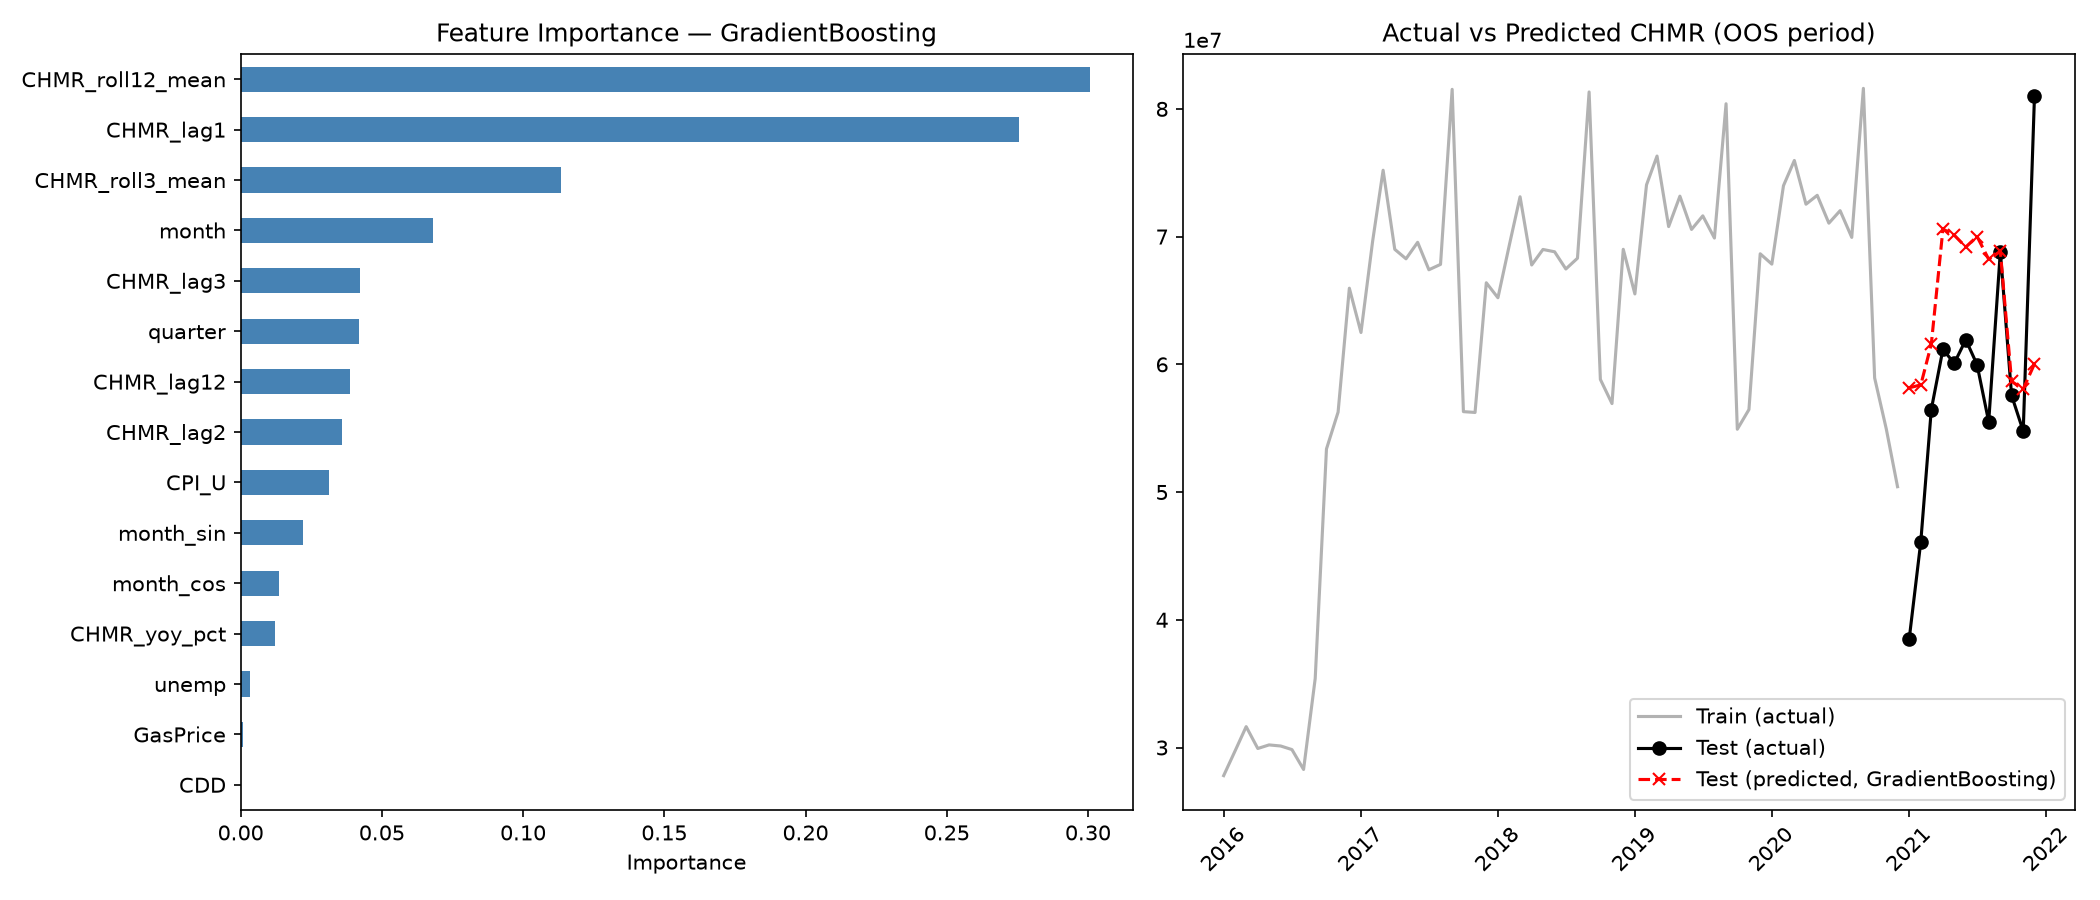
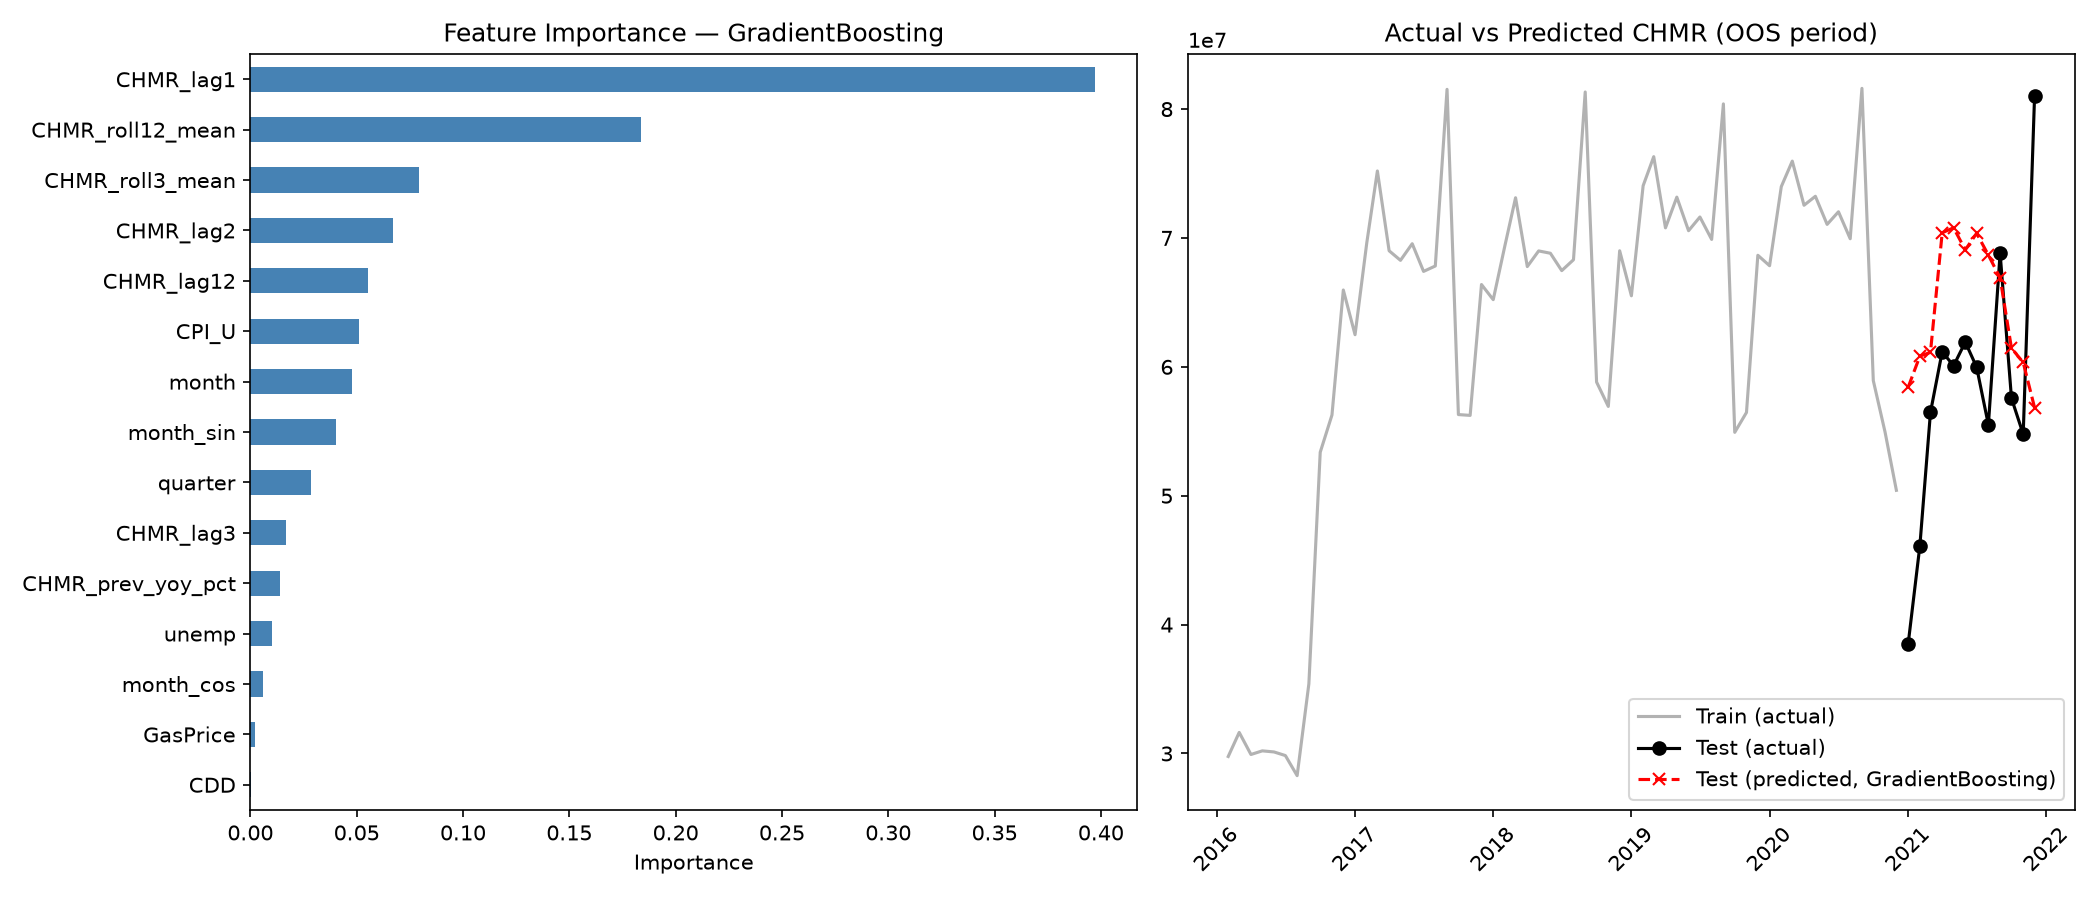
finished july 18 deliverables

diff --git a/scripts/chmr_best_model.py b/scripts/chmr_best_model.py
@@ -1,0 +1,327 @@
+"""
+CHMR Sales Tax Revenue Prediction — Best Model Auto-Select
+============================================================
+Tries a small set of candidate models (Ridge, Random Forest, Gradient
+Boosting, XGBoost), picks whichever generalizes best on walk-forward
+(time-series) cross-validation, and reports full diagnostics for that
+one winning model only.
+
+Input CSV schema (one row per month):
+    date, unemp, CPI_U, GasPrice, CDD, CHMR
+
+Usage:
+    python chmr_best_model.py --csv combined_CC_v2.csv --test_months 12
+    python chmr_best_model.py --csv combined_CC_v2.csv --test_months 12 --exclude_test_months 2021-01,2021-02
+"""
+
+import argparse
+import warnings
+import numpy as np
+import pandas as pd
+import matplotlib.pyplot as plt
+
+from sklearn.ensemble import RandomForestRegressor, GradientBoostingRegressor
+from sklearn.linear_model import Ridge
+from sklearn.pipeline import make_pipeline
+from sklearn.preprocessing import StandardScaler
+from sklearn.metrics import (
+    r2_score,
+    mean_absolute_error,
+    mean_squared_error,
+    mean_absolute_percentage_error,
+)
+
+try:
+    from xgboost import XGBRegressor
+    HAS_XGB = True
+except ImportError:
+    HAS_XGB = False
+
+warnings.filterwarnings("ignore")
+
+
+# ---------------------------------------------------------------------------
+# 1. LOAD + CLEAN
+# ---------------------------------------------------------------------------
+def load_data(csv_path: str) -> pd.DataFrame:
+    df = pd.read_csv(csv_path)
+
+    # Parse percent strings like "5.70%" -> 5.70 (float). Checks is_numeric_dtype
+    # rather than dtype == object, since pandas' newer StringDtype doesn't
+    # compare equal to `object` but still needs the same parsing.
+    if not pd.api.types.is_numeric_dtype(df["unemp"]):
+        df["unemp"] = df["unemp"].astype(str).str.rstrip("%").astype(float)
+
+    df["date"] = pd.to_datetime(df["date"], format="%m/%d/%y", errors="coerce")
+    if df["date"].isna().any():
+        df["date"] = pd.to_datetime(df["date"].astype(str), errors="coerce")
+
+    df = df.sort_values("date").reset_index(drop=True)
+    return df
+
+
+# ---------------------------------------------------------------------------
+# 2. FEATURE ENGINEERING
+# ---------------------------------------------------------------------------
+def build_features(df: pd.DataFrame) -> pd.DataFrame:
+    df = df.copy()
+
+    df["month"] = df["date"].dt.month
+    df["quarter"] = df["date"].dt.quarter
+    df["month_sin"] = np.sin(2 * np.pi * df["month"] / 12)
+    df["month_cos"] = np.cos(2 * np.pi * df["month"] / 12)
+
+    # Autoregressive / lag features — all built with .shift(), so they only
+    # look backward in time (no leakage from the row being predicted).
+    df["CHMR_lag1"] = df["CHMR"].shift(1)
+    df["CHMR_lag2"] = df["CHMR"].shift(2)
+    df["CHMR_lag3"] = df["CHMR"].shift(3)
+    df["CHMR_lag12"] = df["CHMR"].shift(12)   # same month, prior year
+    df["CHMR_lag13"] = df["CHMR"].shift(13)   # same month, prior year, one month earlier
+    df["CHMR_roll3_mean"] = df["CHMR"].shift(1).rolling(window=3).mean()
+    df["CHMR_roll12_mean"] = df["CHMR"].shift(1).rolling(window=12).mean()
+
+    # Growth-rate feature built entirely from already-known lagged values
+    # (lag1 vs lag13) — NOT pct_change(12) on the raw column, which would use
+    # the current row's CHMR and leak the target into its own feature.
+    df["CHMR_prev_yoy_pct"] = (df["CHMR_lag1"] - df["CHMR_lag13"]) / df["CHMR_lag13"]
+
+    df = df.dropna().reset_index(drop=True)
+    return df
+
+
+FEATURE_COLS = [
+    "unemp", "CPI_U", "GasPrice", "CDD",
+    "month", "quarter", "month_sin", "month_cos",
+    "CHMR_lag1", "CHMR_lag2", "CHMR_lag3", "CHMR_lag12",
+    "CHMR_roll3_mean", "CHMR_roll12_mean", "CHMR_prev_yoy_pct",
+]
+TARGET_COL = "CHMR"
+
+
+# ---------------------------------------------------------------------------
+# 3. TRAIN/TEST SPLIT (chronological — never random for time series)
+# ---------------------------------------------------------------------------
+def time_split(df: pd.DataFrame, test_months: int):
+    if test_months >= len(df):
+        raise ValueError("test_months must be smaller than the number of rows available")
+    return df.iloc[:-test_months].reset_index(drop=True), df.iloc[-test_months:].reset_index(drop=True)
+
+
+# ---------------------------------------------------------------------------
+# 4. METRICS
+# ---------------------------------------------------------------------------
+def compute_metrics(y_true, y_pred) -> dict:
+    rmse = np.sqrt(mean_squared_error(y_true, y_pred))
+    mae = mean_absolute_error(y_true, y_pred)
+    mape = mean_absolute_percentage_error(y_true, y_pred) * 100
+    r2 = r2_score(y_true, y_pred)
+    smape = np.mean(
+        2 * np.abs(y_pred - y_true) / (np.abs(y_true) + np.abs(y_pred) + 1e-9)
+    ) * 100
+    return {"R2": r2, "MAE": mae, "RMSE": rmse, "MAPE_%": mape, "sMAPE_%": smape}
+
+
+def print_metrics(label: str, metrics: dict):
+    print(f"\n  {label}")
+    print(f"  {'-' * len(label)}")
+    for k, v in metrics.items():
+        print(f"    {k:10s}: {v:.4f}" if k == "R2" else f"    {k:10s}: {v:,.3f}")
+
+
+# ---------------------------------------------------------------------------
+# 5. CANDIDATE MODELS
+# ---------------------------------------------------------------------------
+def build_candidates():
+    candidates = {
+        "Ridge": make_pipeline(StandardScaler(), Ridge(alpha=5.0)),
+        "RandomForest": RandomForestRegressor(
+            n_estimators=300, max_depth=5, min_samples_leaf=3,
+            max_features="sqrt", random_state=42, n_jobs=-1,
+        ),
+        "GradientBoosting": GradientBoostingRegressor(
+            n_estimators=150, max_depth=2, learning_rate=0.03,
+            subsample=0.7, random_state=42,
+        ),
+    }
+    if HAS_XGB:
+        candidates["XGBoost"] = XGBRegressor(
+            n_estimators=200, max_depth=2, learning_rate=0.03,
+            subsample=0.7, colsample_bytree=0.7, reg_lambda=2.0,
+            random_state=42, n_jobs=-1,
+        )
+    return candidates
+
+
+def rolling_origin_backtest(model, X: pd.DataFrame, y: pd.Series, horizon: int,
+                             min_train: int, step: int) -> dict:
+    """
+    Simulates the *actual* task the model will be judged on — train on
+    everything up to some point, then predict the next `horizon` months as a
+    block — repeated at several points walking forward through training
+    history, and averaged. This is a closer proxy for genuine forward-looking
+    accuracy than standard TimeSeriesSplit CV, which validates on short,
+    scattered folds rather than one full-length forecast horizon at a time.
+    Only uses data already in the training set — the real test set is never
+    touched during model selection.
+    """
+    n = len(X)
+    cutoffs = list(range(min_train, n - horizon + 1, step))
+    if not cutoffs:
+        # Not enough history for a proper backtest window; fall back to a
+        # single split using whatever's available.
+        cutoffs = [max(1, n - horizon)]
+
+    all_true, all_pred = [], []
+    for cutoff in cutoffs:
+        model.fit(X.iloc[:cutoff], y.iloc[:cutoff])
+        preds = model.predict(X.iloc[cutoff:cutoff + horizon])
+        all_true.extend(y.iloc[cutoff:cutoff + horizon].values)
+        all_pred.extend(preds)
+
+    return compute_metrics(np.array(all_true), np.array(all_pred))
+
+
+# ---------------------------------------------------------------------------
+# MAIN
+# ---------------------------------------------------------------------------
+def main():
+    parser = argparse.ArgumentParser()
+    parser.add_argument("--csv", type=str, default="combined_CC_v2.csv")
+    parser.add_argument("--test_months", type=int, default=12,
+                         help="Number of most recent months held out as OOS test set")
+    parser.add_argument("--backtest_min_train", type=int, default=24,
+                         help="Minimum months of history before the first backtest window "
+                              "(needs enough data to fit lag features + a stable model)")
+    parser.add_argument("--backtest_step", type=int, default=6,
+                         help="Months to advance the backtest origin between windows")
+    parser.add_argument("--exclude_test_months", type=str, default="",
+                         help="Comma-separated YYYY-MM months to exclude from OOS metric "
+                              "scoring only (e.g. known one-off anomalies). They stay in the "
+                              "per-month table, just not in the aggregate metrics. "
+                              "e.g. --exclude_test_months 2021-01,2021-02")
+    args = parser.parse_args()
+    exclude_months = {m.strip() for m in args.exclude_test_months.split(",") if m.strip()}
+
+    print(f"Loading {args.csv} ...")
+    raw = load_data(args.csv)
+    print(f"  Loaded {len(raw)} rows spanning {raw['date'].min().date()} to {raw['date'].max().date()}")
+
+    feat = build_features(raw)
+    print(f"  {len(feat)} rows remain after lag feature engineering "
+          f"(first 12 months dropped due to CHMR_lag12/lag13)")
+
+    train_df, test_df = time_split(feat, args.test_months)
+    print(f"  Train: {train_df['date'].min().date()} to {train_df['date'].max().date()} ({len(train_df)} months)")
+    print(f"  Test (OOS): {test_df['date'].min().date()} to {test_df['date'].max().date()} ({len(test_df)} months)")
+
+    train_max, test_above = train_df[TARGET_COL].max(), (test_df[TARGET_COL] > train_df[TARGET_COL].max()).mean() * 100
+    if test_above > 0:
+        print(f"\n  Note: {test_above:.0f}% of test months exceed the training max ({train_max:,.0f}). "
+              f"Tree models can't extrapolate above that, which will bias them toward underprediction.")
+
+    X_train, X_test = train_df[FEATURE_COLS], test_df[FEATURE_COLS]
+    y_train, y_test = train_df[TARGET_COL], test_df[TARGET_COL]
+
+    # ---- Silently evaluate every candidate via rolling-origin backtest, pick the winner ----
+    # Each candidate is repeatedly trained on "everything up through some point" and asked
+    # to forecast the next `test_months`-long block, walking forward through training
+    # history. This is the same task shape as the real held-out evaluation, so whichever
+    # model wins here should be a much better bet to also win on the real test set than
+    # picking based on small-fold CV (which is what caused GradientBoosting to look best
+    # on CV but lose to Ridge on the actual 2021 holdout last time).
+    print(f"\nEvaluating candidate models (rolling-origin backtest, "
+          f"{args.test_months}-month forecast blocks)...")
+    candidates = build_candidates()
+    backtest_results = {}
+    for name, model in candidates.items():
+        backtest_results[name] = rolling_origin_backtest(
+            model, X_train, y_train,
+            horizon=args.test_months,
+            min_train=args.backtest_min_train,
+            step=args.backtest_step,
+        )
+        m = backtest_results[name]
+        print(f"  {name:20s} backtest RMSE: {m['RMSE']:>13,.0f}   MAPE: {m['MAPE_%']:.2f}%")
+
+    best_name = min(backtest_results, key=lambda n: backtest_results[n]["RMSE"])
+    best_model = candidates[best_name]
+    print(f"\n>>> Selected model: {best_name} (lowest rolling-origin backtest RMSE)")
+
+    # ---- Fit winner on full training set, evaluate in-sample + OOS ----
+    best_model.fit(X_train, y_train)
+    train_preds = best_model.predict(X_train)
+    test_preds = best_model.predict(X_test)
+
+    in_sample_metrics = compute_metrics(y_train, train_preds)
+    oos_metrics = compute_metrics(y_test, test_preds)
+
+    print(f"\n{'=' * 60}\n{best_name} — Full Report\n{'=' * 60}")
+    print_metrics("In-sample (train)", in_sample_metrics)
+    print_metrics("Out-of-sample (test, unseen months)", oos_metrics)
+
+    # ---- Per-month error breakdown ----
+    print(f"\n{'=' * 60}\nPER-MONTH ERROR (sorted by worst absolute % error)\n{'=' * 60}")
+    month_diag = pd.DataFrame({
+        "date": test_df["date"].dt.strftime("%Y-%m").values,
+        "actual": y_test.values,
+        "predicted": test_preds,
+    })
+    month_diag["abs_pct_error"] = (
+        (month_diag["predicted"] - month_diag["actual"]).abs() / month_diag["actual"] * 100
+    )
+    print(month_diag.sort_values("abs_pct_error", ascending=False).to_string(
+        index=False,
+        formatters={
+            "actual": lambda x: f"{x:,.0f}",
+            "predicted": lambda x: f"{x:,.0f}",
+            "abs_pct_error": lambda x: f"{x:.1f}%",
+        },
+    ))
+    month_diag.to_csv("chmr_per_month_error.csv", index=False)
+    print("\nSaved: chmr_per_month_error.csv")
+
+    # ---- Steady-state metrics (excluding known anomalous months) ----
+    if exclude_months:
+        mask = ~month_diag["date"].isin(exclude_months)
+        found = sorted(exclude_months & set(month_diag["date"]))
+        print(f"\n{'=' * 60}\nSTEADY-STATE METRICS (excluding: {', '.join(found)})\n{'=' * 60}")
+        if mask.sum() == 0:
+            print("  All test months were excluded — nothing left to score.")
+        else:
+            steady_metrics = compute_metrics(month_diag.loc[mask, "actual"], month_diag.loc[mask, "predicted"])
+            print_metrics(f"{best_name} ({mask.sum()} of {len(month_diag)} months retained)", steady_metrics)
+
+    # ---- Feature importance / coefficients + plot ----
+    fig, axes = plt.subplots(1, 2, figsize=(14, 6))
+    if hasattr(best_model, "feature_importances_"):
+        importances = pd.Series(best_model.feature_importances_, index=FEATURE_COLS).sort_values()
+        importances.plot(kind="barh", ax=axes[0], color="steelblue")
+        axes[0].set_title(f"Feature Importance — {best_name}")
+        axes[0].set_xlabel("Importance")
+    else:
+        ridge_step = best_model.named_steps["ridge"]
+        coefs = pd.Series(ridge_step.coef_, index=FEATURE_COLS).sort_values()
+        coefs.plot(kind="barh", ax=axes[0], color="steelblue")
+        axes[0].set_title(f"Standardized Coefficients — {best_name}")
+        axes[0].set_xlabel("Coefficient (on scaled features)")
+
+    axes[1].plot(train_df["date"], y_train, label="Train (actual)", color="gray", alpha=0.6)
+    axes[1].plot(test_df["date"], y_test, label="Test (actual)", color="black", marker="o")
+    axes[1].plot(test_df["date"], test_preds, label=f"Test (predicted, {best_name})",
+                 color="red", marker="x", linestyle="--")
+    axes[1].set_title("Actual vs Predicted CHMR (OOS period)")
+    axes[1].legend()
+    axes[1].tick_params(axis="x", rotation=45)
+
+    plt.tight_layout()
+    plt.savefig("chmr_model_results.png", dpi=150)
+    print("\nSaved plot: chmr_model_results.png")
+
+    pd.DataFrame({"date": test_df["date"], "actual": y_test.values, "predicted": test_preds}) \
+        .to_csv("chmr_oos_predictions.csv", index=False)
+    print("Saved predictions: chmr_oos_predictions.csv")
+
+
+if __name__ == "__main__":
+    main()